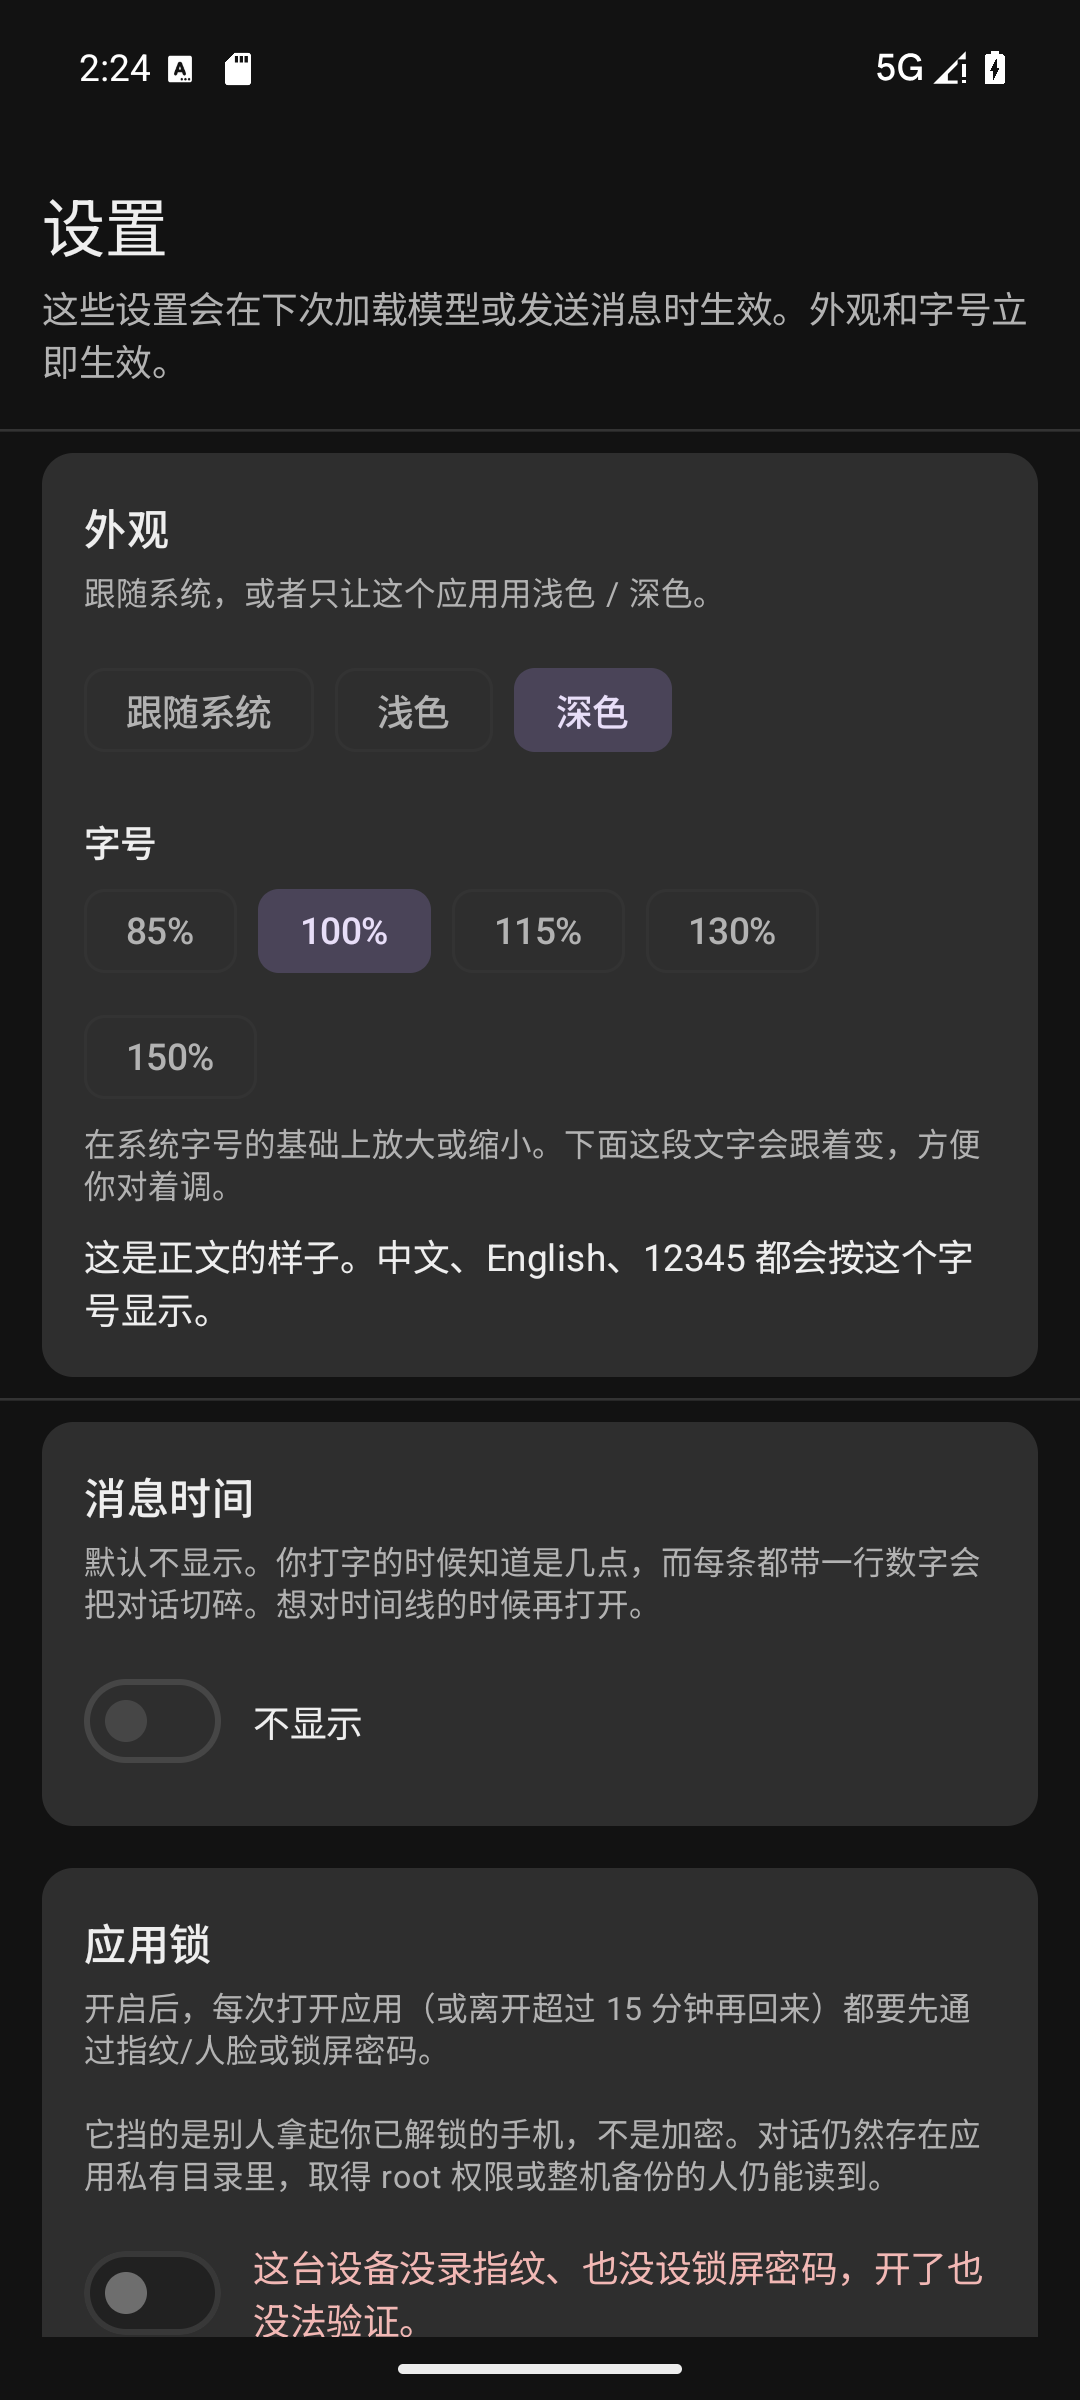
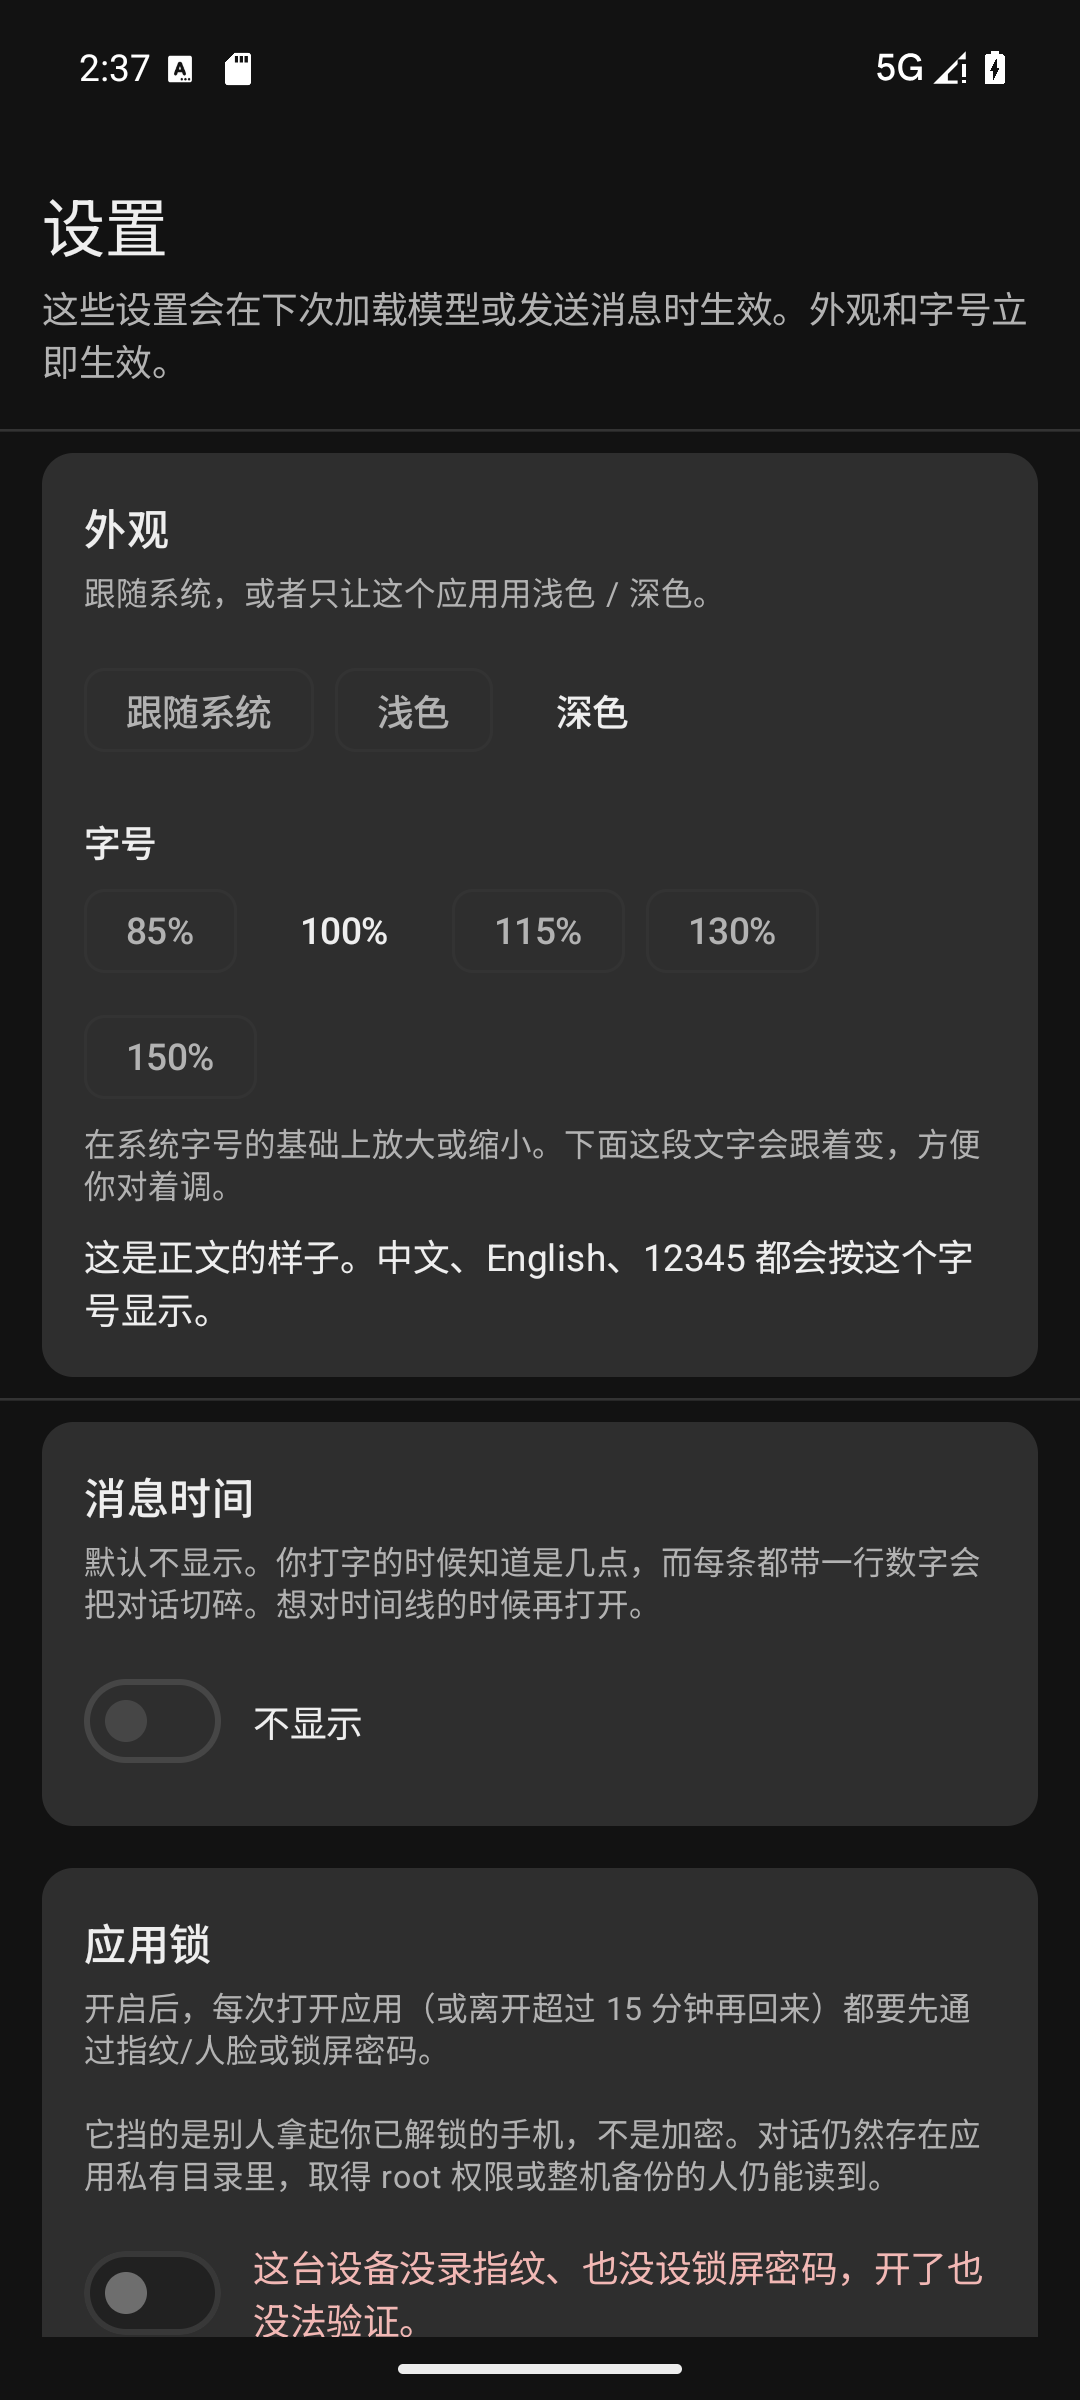
release: 1.2.0, with the screenshots and README to match
Every screenshot in docs/shots was retaken on this build. The six native ones were
from 11-10, before the palette, the model screen's load action and the settings
reorganisation; they showed an interface that no longer exists.

Also corrected two claims the screenshots would have contradicted: the capability
table still said location was kept in local mode (it is hidden now, because the
local system prompt is consumed at load time), and the feature list did not mention
the conversation search, the session search, pin/archive, message deletion or the
share/export pair, all of which are in the page the README is describing.

The demo GIF is not re-recorded: it is from this same front end, captured earlier
today, and re-recording it needs an interaction pass that the emulator's WebView
does not expose to automation (no text field in the accessibility tree).

Changed region(s): [[0.2139, 0.3438, 0.3972, 0.4062], [0.4583, 0.2812, 0.6417, 0.3125]]

diff --git a/README.md b/README.md
@@ -5,7 +5,8 @@
 ## 功能
 
 - **完全在手机上运行**：模型下载完成之后断网也能用，对话不出设备
-- **对话与历史**：流式回复、重新生成、对话内搜索、重命名 / 置顶 / 导出备份
+- **对话与历史**：流式回复、重新生成、续写、编辑提问、版本切换；对话内搜索、跨对话搜索
+  （标题与正文）、置顶 / 归档、重命名、单条或一组问答删除、分享整段或 Markdown 导出
 - **多模态**：图片交给设备上的视觉模型；语音输入交给系统识别器（离线优先）；
   朗读交给系统 TTS。音频与图片都不出手机
 - **模型**：下载（可续传、按摘要校验）、从文件导入、删除；跑分给出首 token、预填与解码速度，
@@ -35,7 +36,7 @@
 | 云端原型里的能力 | 这台设备上的做法 |
 | --- | --- |
 | 回复朗读 | 系统 `TextToSpeech`，离线 |
-| 位置信息 | 本来就是本地数据（省市表），保留 |
+| 位置信息 | 本机模式下不出现：云端把它放进请求上下文，本机的系统提示词在加载模型时就用掉了，请求期没有位置可走 |
 | 图片附件 | 字节不出进程，交给设备上的视觉模型 |
 | 语音输入 | 系统 `SpeechRecognizer`，请求带 `EXTRA_PREFER_OFFLINE` |
 | 联网搜索 | 需要云端检索，本机模式不出现 |
@@ -66,7 +67,7 @@
 ### 管理界面（Compose，只剩 NULL 独有的部分）
 
 对话与历史都由页面负责，原生这边只保留 chat-demo 做不了的界面：模型管理
-（下载/校验/跑分与跨模型对比/删除）、设置（后端、采样、系统提示词、提示词库、应用锁）、
+（下载/校验/加载与切换/跑分与跨模型对比/删除）、设置（后端、采样、系统提示词、提示词库、应用锁）、
 关于（许可证、诊断、擦除）。这三页从页面设置里的三行打开，返回即回到对话。
 
 会话本身不住在这里：页面的会话文档经桥写进 `files/web-history/`，用 `FileCipher`
@@ -75,6 +76,9 @@
 | 模型管理 | 摘要校验 |
 | --- | --- |
 | ![模型管理](docs/shots/02-models.png) | ![摘要校验](docs/shots/07-verify.png) |
+
+模型卡片上的「加载」就是切换：加载之后就由它回答，卡片上会标「使用中」。同一行右边的
+「删除」删的是文件，两者互不影响。
 
 | 设置 | 运行在 / 提示词 / 回答 | 深色设置 |
 | --- | --- | --- |
